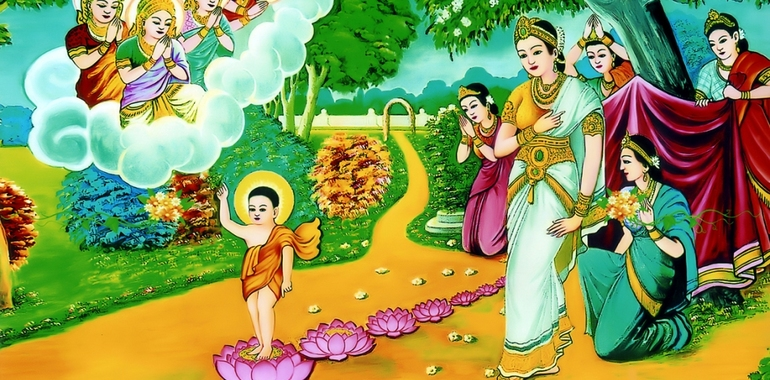
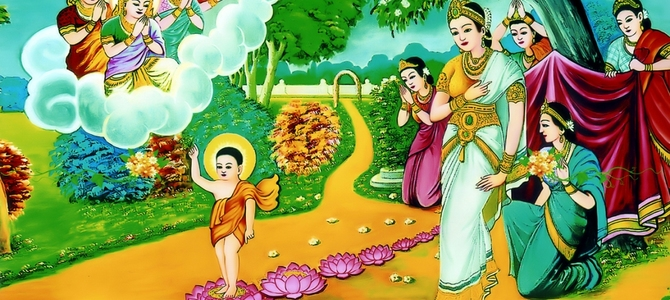
update

diff --git a/public/frontend/css/custom.css b/public/frontend/css/custom.css
@@ -102,4 +102,5 @@ div.block-content {
 .post-content p img {
 	width: 100%;
 	height: auto;
+	border: solid 1px #f44336;
 }

diff --git a/app/models/article.rb b/app/models/article.rb
@@ -21,14 +21,87 @@ class Article < ActiveRecord::Base
       self.title.unaccent.downcase.to_s.gsub(/[^0-9a-z ]/i, '').gsub(/ +/i, '-').strip
   end
   
-  # 2 - Buddhist news
-    def self.get_all_buddhist_news
+  # 0 - hot news
+    def self.get_hot_news # get 12 items
         records = self.get_active_articles
-        records = records.joins(:article_categories).where("article_categories.name = 'Phật Sự'")
+        records = records.where("articles.is_mine = true").first(12)
         
         records
     end
-  # End Buddhist news
+    def self.get_newest_hot_news # get 12 items
+        records = self.get_active_articles
+        records = records.where("articles.is_mine = true").first(3)
+        
+        records
+    end
+  # End hot news
+  
+  # 1 - category_1
+    def self.get_all_category_1 # get 9 items phật sự
+        records = self.get_active_articles
+        records = records.joins(:article_categories).where("article_categories.style = 'category_1'").first(5)
+        
+        records
+    end
+    def self.get_newest_category_1 # get 9 items phật sự
+        records = self.get_active_articles
+        records = records.joins(:article_categories).where("article_categories.style = 'category_1'").first(3)
+        
+        records
+    end
+  # End category_1
+  
+  # 2 - category_2
+    def self.get_all_category_2 # get 9 items phật pháp
+        records = self.get_active_articles
+        records = records.joins(:article_categories).where("article_categories.style = 'category_2'
+                                                            or article_categories.style = 'category_2.1'
+                                                            or article_categories.style = 'category_2.2'
+                                                            or article_categories.style = 'category_2.3'
+                                                            or article_categories.style = 'category_2.4'
+                                                            or article_categories.style = 'category_2.5'").first(5)
+        
+        records
+    end
+  # End category_2
+  
+  # 3 - category_3
+    def self.get_all_category_3 # get 9 items tin tức
+        records = self.get_active_articles
+        records = records.joins(:article_categories).where("article_categories.style = 'category_3'").first(5)
+        
+        records
+    end
+  # End category_3
+  
+  # 1 - category_1
+    def self.get_all_category_4 # get 9 items từ thiện
+        records = self.get_active_articles
+        records = records.joins(:article_categories).where("article_categories.style = 'category_4'").first(5)
+        
+        records
+    end
+  # End category_1
+  
+  # 5 - category_5
+    def self.get_all_category_5 # get 5 items văn hóa
+        records = self.get_active_articles
+        records = records.joins(:article_categories).where("article_categories.style = 'category_5'
+                                                            or article_categories.style = 'category_5.1'
+                                                            or article_categories.style = 'category_5.2'").first(4)
+        
+        records
+    end
+  # End category_5
+  
+  # 6 - category_6
+    def self.get_all_category_6 # get 5 items văn hóa
+        records = self.get_active_articles
+        records = records.joins(:article_categories).where("article_categories.style = 'category_6'").first(4)
+        
+        records
+    end
+  # End category_6
   
   # 3 - Buddhist Book
   

diff --git a/app/controllers/admin/article_categories_controller.rb b/app/controllers/admin/article_categories_controller.rb
@@ -43,6 +43,7 @@ class Admin::ArticleCategoriesController < ApplicationController
     # authorize
     authorize! :create, ArticleCategory
     @article_category = ArticleCategory.new(article_category_params)
+    @article_category.user_id = current_user.id    
 
     respond_to do |format|
       if @article_category.save
@@ -64,6 +65,7 @@ class Admin::ArticleCategoriesController < ApplicationController
   def update
     # authorize
     authorize! :update, @article_category
+    @article_category.user_id = current_user.id
     
     respond_to do |format|
       if @article_category.update(article_category_params)
@@ -99,6 +101,6 @@ class Admin::ArticleCategoriesController < ApplicationController
 
     # Never trust parameters from the scary internet, only allow the white list through.
     def article_category_params
-      params.require(:article_category).permit(:name, :level, :style, :position, :description, :meta_keywords, :meta_description, parent_ids: [])
+      params.require(:article_category).permit(:name, :level, :style, :position, :description, parent_ids: [])
     end
 end

diff --git a/app/uploaders/article_uploader.rb b/app/uploaders/article_uploader.rb
@@ -38,14 +38,23 @@ class ArticleUploader < CarrierWave::Uploader::Base
   version :big_image do
     process :resize_to_fill => [1170, 356]
   end
-  version :large_image do
+  version :larger_image do
     process :resize_to_fill => [770, 380]
+  end
+  version :large_image do
+    process :resize_to_fill => [670, 300]
   end
   version :medium_image do
     process :resize_to_fill => [368, 300]
   end
-  version :small_image do
+  version :smallest_image do
     process :resize_to_fill => [243, 180]
+  end
+  version :smaller_image do
+    process :resize_to_fill => [170, 70]
+  end
+  version :small_image do
+    process :resize_to_fill => [100, 80]
   end
 
   # Add a white list of extensions which are allowed to be uploaded.

diff --git a/db/schema.rb b/db/schema.rb
@@ -11,7 +11,7 @@
 #
 # It's strongly recommended that you check this file into your version control system.
 
-ActiveRecord::Schema.define(version: 20160813123044) do
+ActiveRecord::Schema.define(version: 20160815011801) do
 
   # These are extensions that must be enabled in order to support this database
   enable_extension "plpgsql"
@@ -51,6 +51,7 @@ ActiveRecord::Schema.define(version: 20160813123044) do
     t.text     "meta_description"
     t.string   "style"
     t.integer  "position",         default: 1
+    t.integer  "user_id"
   end
 
   create_table "article_categories_articles", force: :cascade do |t|

diff --git a/app/controllers/admin/articles_controller.rb b/app/controllers/admin/articles_controller.rb
@@ -207,6 +207,6 @@ class Admin::ArticlesController < ApplicationController
 
     # Never trust parameters from the scary internet, only allow the white list through.
     def article_params
-      params.require(:article).permit(:image_url, :title, :content, :tags, :meta_keywords, :meta_description, :article_category_id, :code, :code_status_id, :is_show, :is_mine, :page_layout, :image_url_full_width, :area_id)
+      params.require(:article).permit(:image_url, :title, :content, :is_show, :is_mine)
     end
 end

diff --git a/db/migrate/20160815011801_add_user_id_to_article_categories.rb b/db/migrate/20160815011801_add_user_id_to_article_categories.rb
@@ -1,0 +1,5 @@
+class AddUserIdToArticleCategories < ActiveRecord::Migration
+  def change
+    add_column :article_categories, :user_id, :integer
+  end
+end
